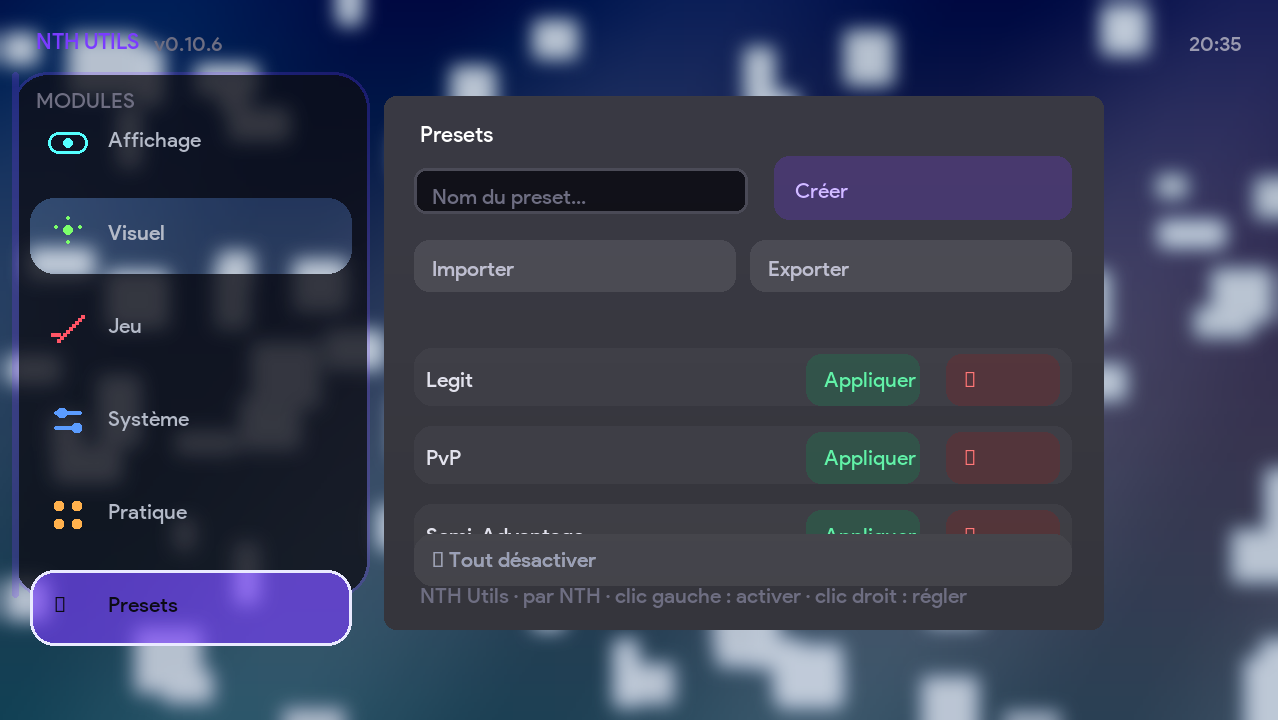
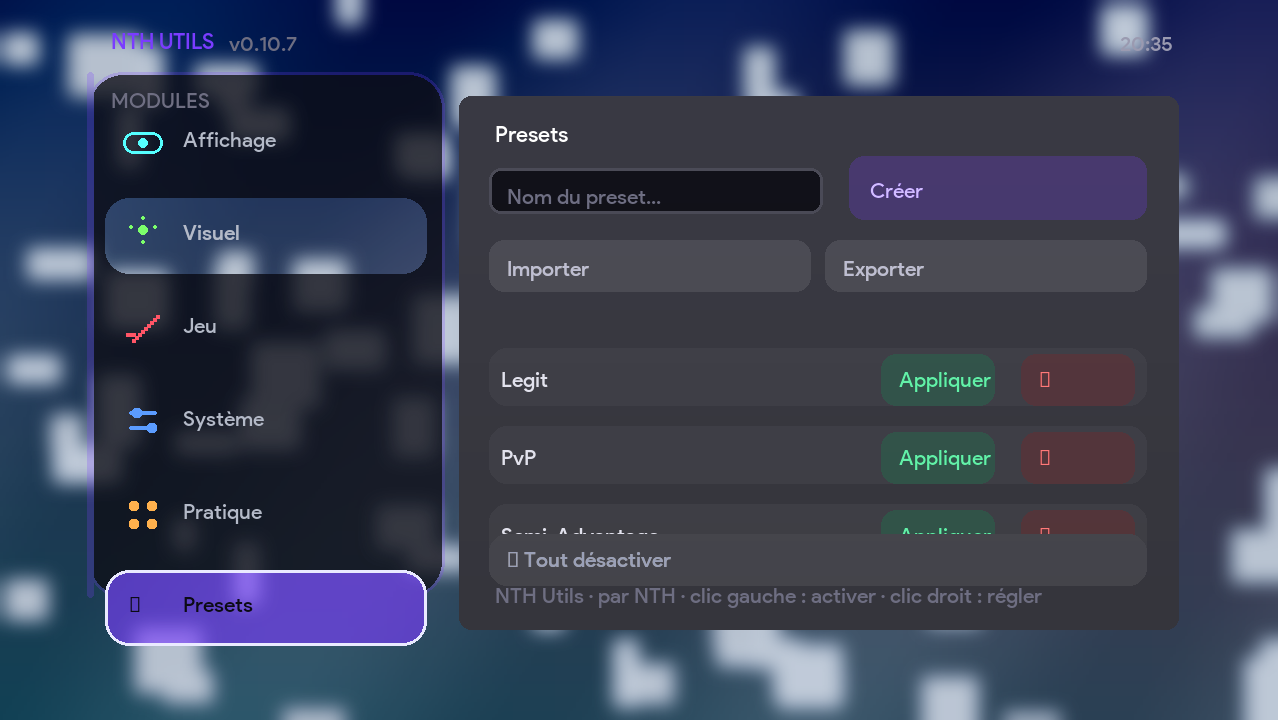
Menu recentré au milieu de l'écran : bloc rail + panneau centré horizontalement, header et horloge alignés sur le bloc ; captures refaites (menu, réglages, presets, palettes, HUD v0.10.7) ; version 0.10.7

diff --git a/docs/index.html b/docs/index.html
@@ -261,23 +261,23 @@
     <p class="lead">Le menu in-game de NTH Utils, ses presets, ses palettes de thème et le HUD — tout est arrondi, avec glow accent animé.</p>
     <div style="display:grid;grid-template-columns:repeat(auto-fit,minmax(320px,1fr));gap:16px;margin-top:24px">
       <figure style="margin:0;background:rgba(12,12,20,.72);border:1px solid rgba(122,60,255,.28);border-radius:14px;padding:10px">
-        <img src="screenshots/menu-principal-0.10.6.png" alt="Menu principal NTH Utils" loading="lazy" style="width:100%;border-radius:8px;display:block">
+        <img src="screenshots/menu-principal-0.10.7.png" alt="Menu principal NTH Utils" loading="lazy" style="width:100%;border-radius:8px;display:block">
         <figcaption style="padding:8px 4px 2px;font-size:13px;color:#aab">Menu principal — rail à sections façon Corz : 5 catégories (Affichage, Visuel, Jeu, Système, Pratique) + Presets, header avec horloge, modules sur 2 lignes</figcaption>
       </figure>
       <figure style="margin:0;background:rgba(12,12,20,.72);border:1px solid rgba(122,60,255,.28);border-radius:14px;padding:10px">
-        <img src="screenshots/menu-parametres-0.10.6.png" alt="Paramètres d'un module NTH Utils" loading="lazy" style="width:100%;border-radius:8px;display:block">
+        <img src="screenshots/menu-parametres-0.10.7.png" alt="Paramètres d'un module NTH Utils" loading="lazy" style="width:100%;border-radius:8px;display:block">
         <figcaption style="padding:8px 4px 2px;font-size:13px;color:#aab">Paramètres d'un module — clic droit sur un module : sliders, toggles, keybind configurable</figcaption>
       </figure>
       <figure style="margin:0;background:rgba(12,12,20,.72);border:1px solid rgba(122,60,255,.28);border-radius:14px;padding:10px">
-        <img src="screenshots/presets-0.10.6.png" alt="Gestion des presets" loading="lazy" style="width:100%;border-radius:8px;display:block">
+        <img src="screenshots/presets-0.10.7.png" alt="Gestion des presets" loading="lazy" style="width:100%;border-radius:8px;display:block">
         <figcaption style="padding:8px 4px 2px;font-size:13px;color:#aab">Presets — export / import / sauvegarde</figcaption>
       </figure>
       <figure style="margin:0;background:rgba(12,12,20,.72);border:1px solid rgba(0,255,200,.25);border-radius:14px;padding:10px">
-        <img src="screenshots/hud-0.10.6.png" alt="HUD en jeu" loading="lazy" style="width:100%;border-radius:8px;display:block">
+        <img src="screenshots/hud-0.10.7.png" alt="HUD en jeu" loading="lazy" style="width:100%;border-radius:8px;display:block">
         <figcaption style="padding:8px 4px 2px;font-size:13px;color:#aab">HUD en jeu — panneau d'infos au centre de l'écran avec dégradé personnalisable, Keystrokes et toasts Module Activé/Désactivé — et FPS boosté par l'Optimiseur</figcaption>
       </figure>
       <figure style="margin:0;background:rgba(12,12,20,.72);border:1px solid rgba(122,60,255,.28);border-radius:14px;padding:10px">
-        <img src="screenshots/palettes-0.10.6.png" alt="Palettes de thème" loading="lazy" style="width:100%;border-radius:8px;display:block">
+        <img src="screenshots/palettes-0.10.7.png" alt="Palettes de thème" loading="lazy" style="width:100%;border-radius:8px;display:block">
         <figcaption style="padding:8px 4px 2px;font-size:13px;color:#aab">8 palettes de thème — accent animé à la CorzClient</figcaption>
       </figure>
     </div>

diff --git a/common/src/main/java/dev/utilikit/client/ui/CorzMenu.java b/common/src/main/java/dev/utilikit/client/ui/CorzMenu.java
@@ -196,8 +196,10 @@ public final class CorzMenu {
         if (entries > 5) {
             railYs[5] = railYs[4] + railB + 26;
         }
+        panelW = Math.min(PANEL_W, Math.max(150, width - 158));
+        // bloc menu (rail + panneau) centré horizontalement sur l'écran
+        railX = Math.max(6, (width - (RAIL_W + 12 + panelW)) / 2);
         panelX = railX + RAIL_W + 12;
-        panelW = Math.min(PANEL_W, Math.max(150, width - panelX - 16));
         panelBottom = Math.max(130, height - 32);
         buildFieldRects();
         buildModuleRows();
@@ -371,13 +373,13 @@ public final class CorzMenu {
             return;
         }
 
-        pen.text("\u00a7lNTH UTILS", 12, 10 + oy, accent);
+        pen.text("\u00a7lNTH UTILS", railX + 2, 10 + oy, accent);
         if (!versionLabel.isEmpty()) {
-            pen.text("\u00a7f" + versionLabel, 12 + pen.width("NTH UTILS") + 5, 11 + oy, 0xFF6E6E82);
+            pen.text("\u00a7f" + versionLabel, railX + 2 + pen.width("NTH UTILS") + 5, 11 + oy, 0xFF6E6E82);
         }
         String time = java.time.LocalTime.now().format(
                 java.time.format.DateTimeFormatter.ofPattern("HH:mm"));
-        pen.text(time, w - 12 - pen.width(time), 10 + oy, 0xFF9A9AB0);
+        pen.text(time, panelX + panelW - pen.width(time), 10 + oy, 0xFF9A9AB0);
 
         drawRail(cv, oy, accent, fade);
 

diff --git a/README.md b/README.md
@@ -9,9 +9,9 @@
 | | |
 |---|---|
 | **Menu principal** (rail à la Corz : 5 catégories + Presets, header horloge, modules 2 lignes) | **Paramètres d'un module** (clic droit : sliders, toggles, keybind) |
-| ![Menu principal](docs/screenshots/menu-principal-0.10.6.png) | ![Paramètres d'un module](docs/screenshots/menu-parametres-0.10.6.png) |
+| ![Menu principal](docs/screenshots/menu-principal-0.10.7.png) | ![Paramètres d'un module](docs/screenshots/menu-parametres-0.10.7.png) |
 | **HUD en jeu** (panneau centré, dégradés + Keystrokes) | **Palettes de thème** (accent animé, à la CorzClient) |
-| ![HUD](docs/screenshots/hud-0.10.6.png) | ![Palettes](docs/screenshots/palettes-0.10.6.png) |
+| ![HUD](docs/screenshots/hud-0.10.7.png) | ![Palettes](docs/screenshots/palettes-0.10.7.png) |
 
 ## 📦 Versions disponibles
 
